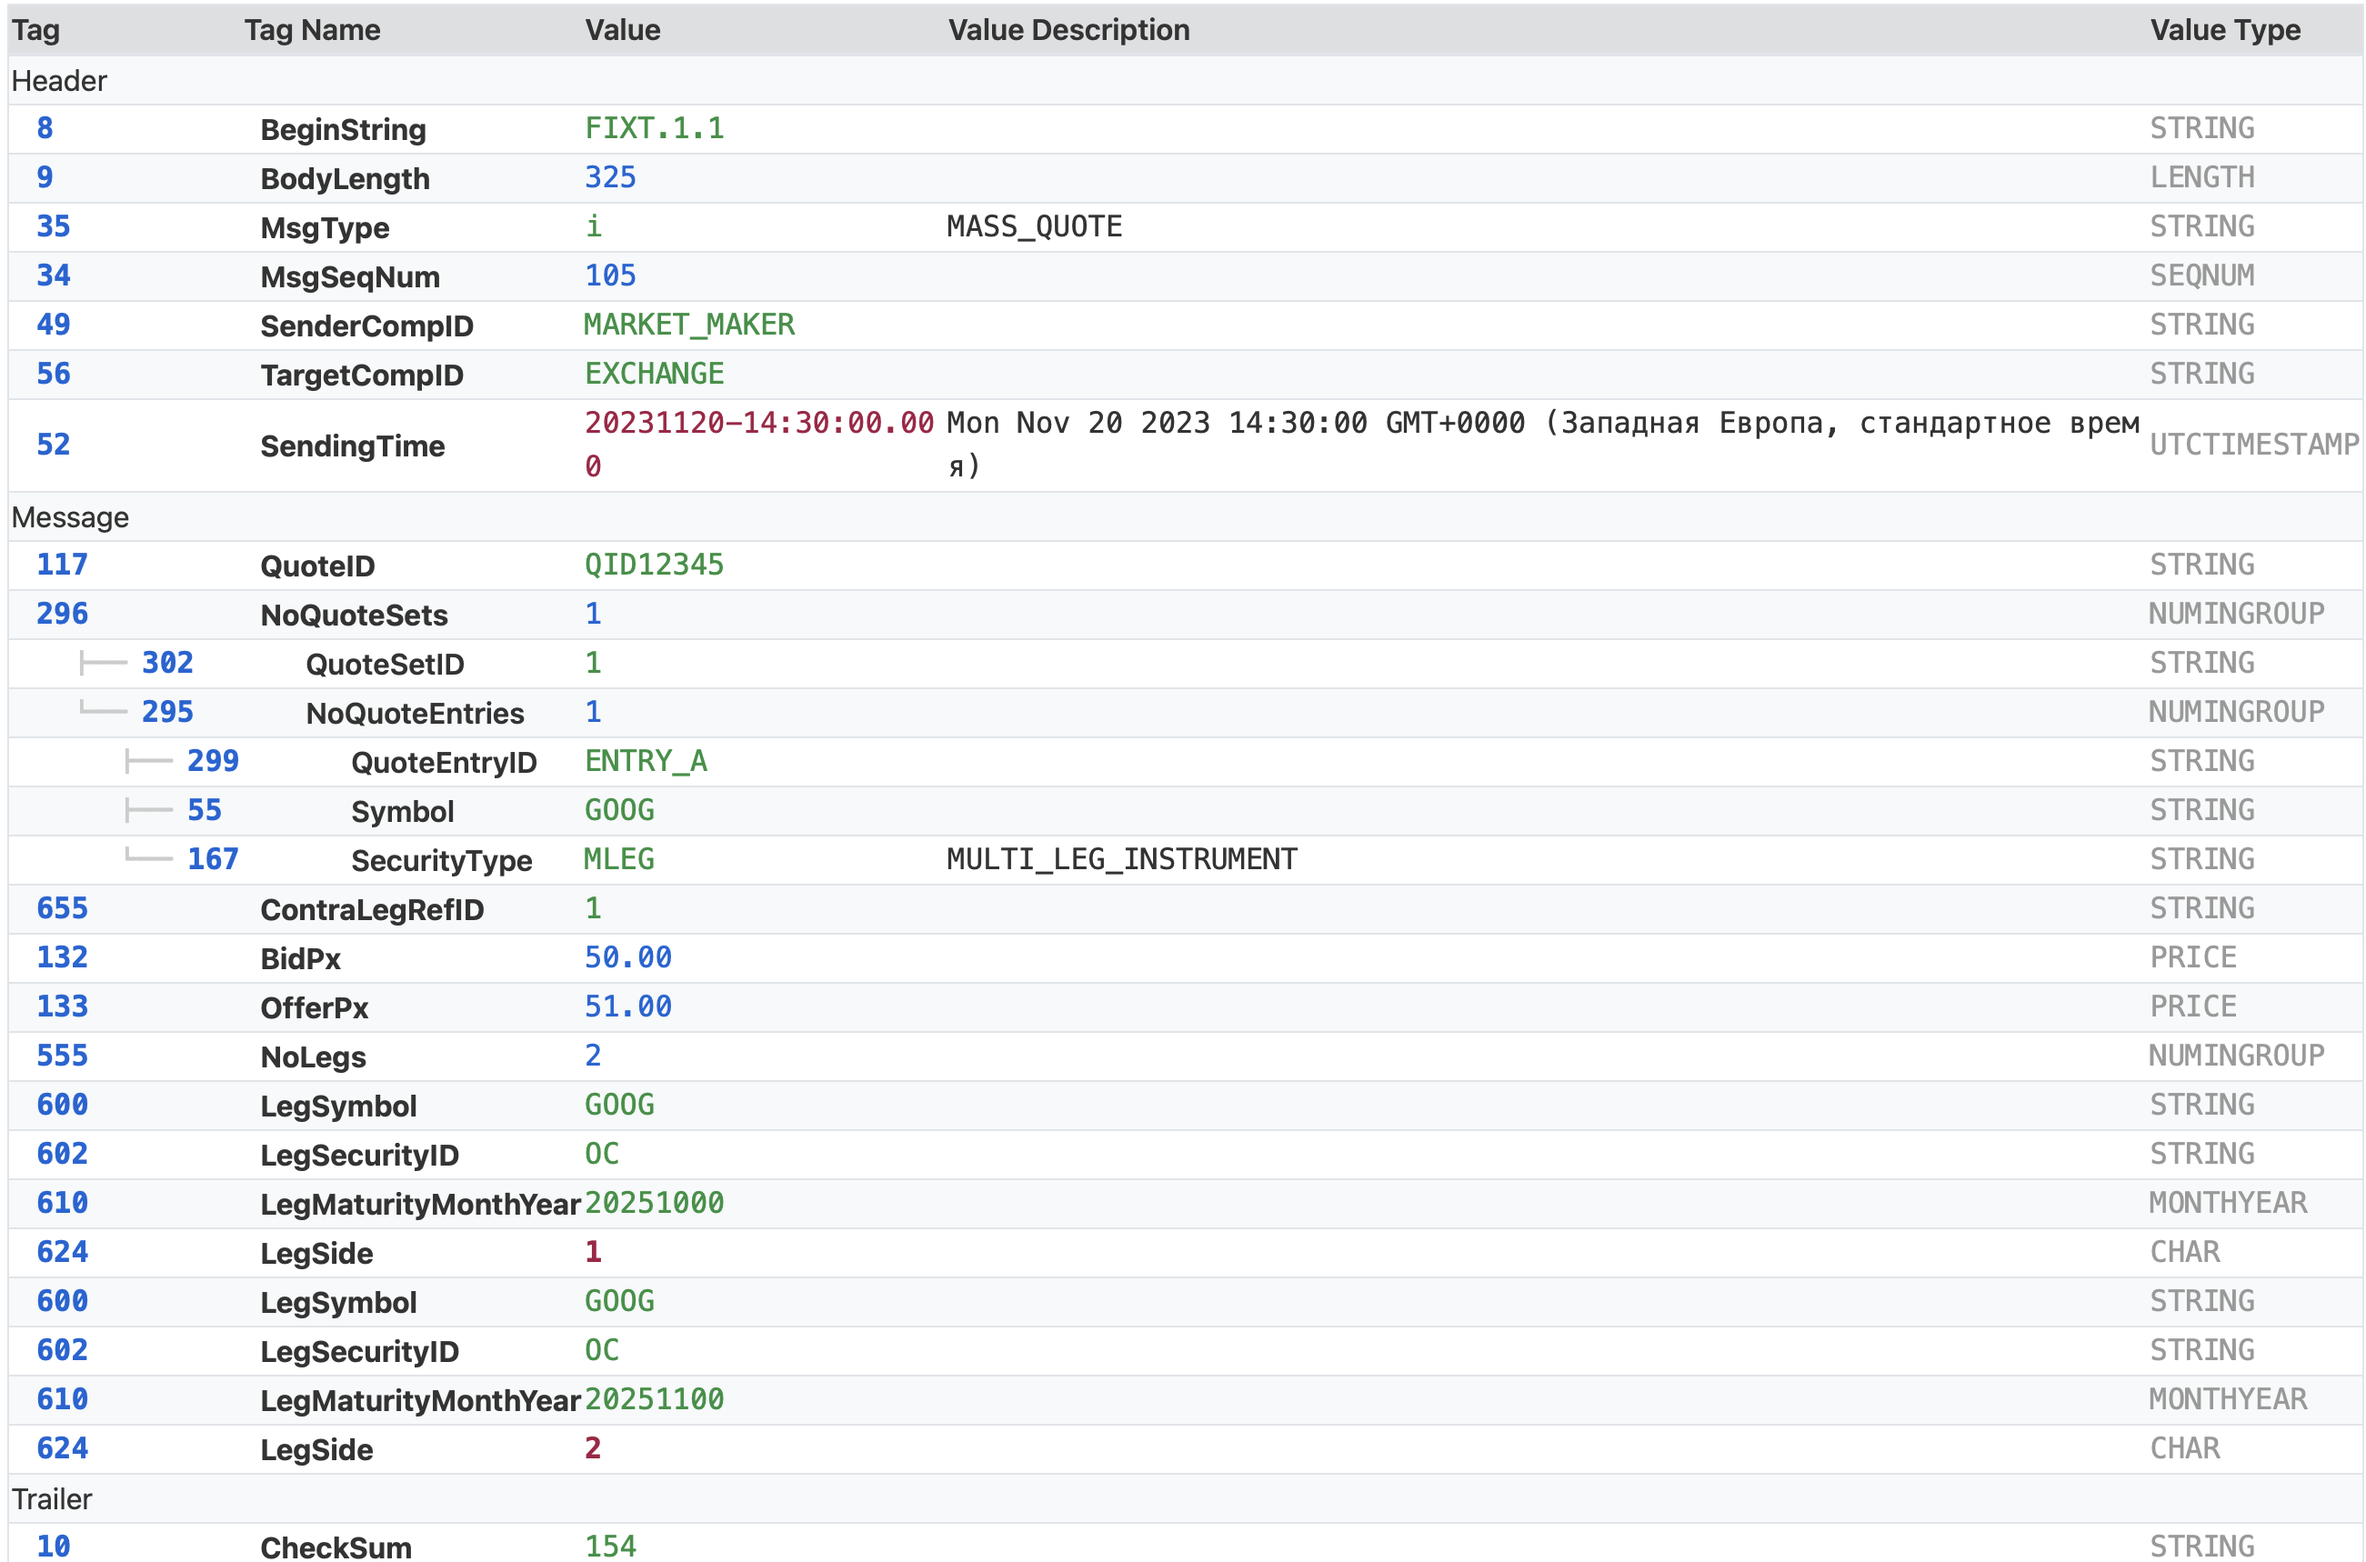
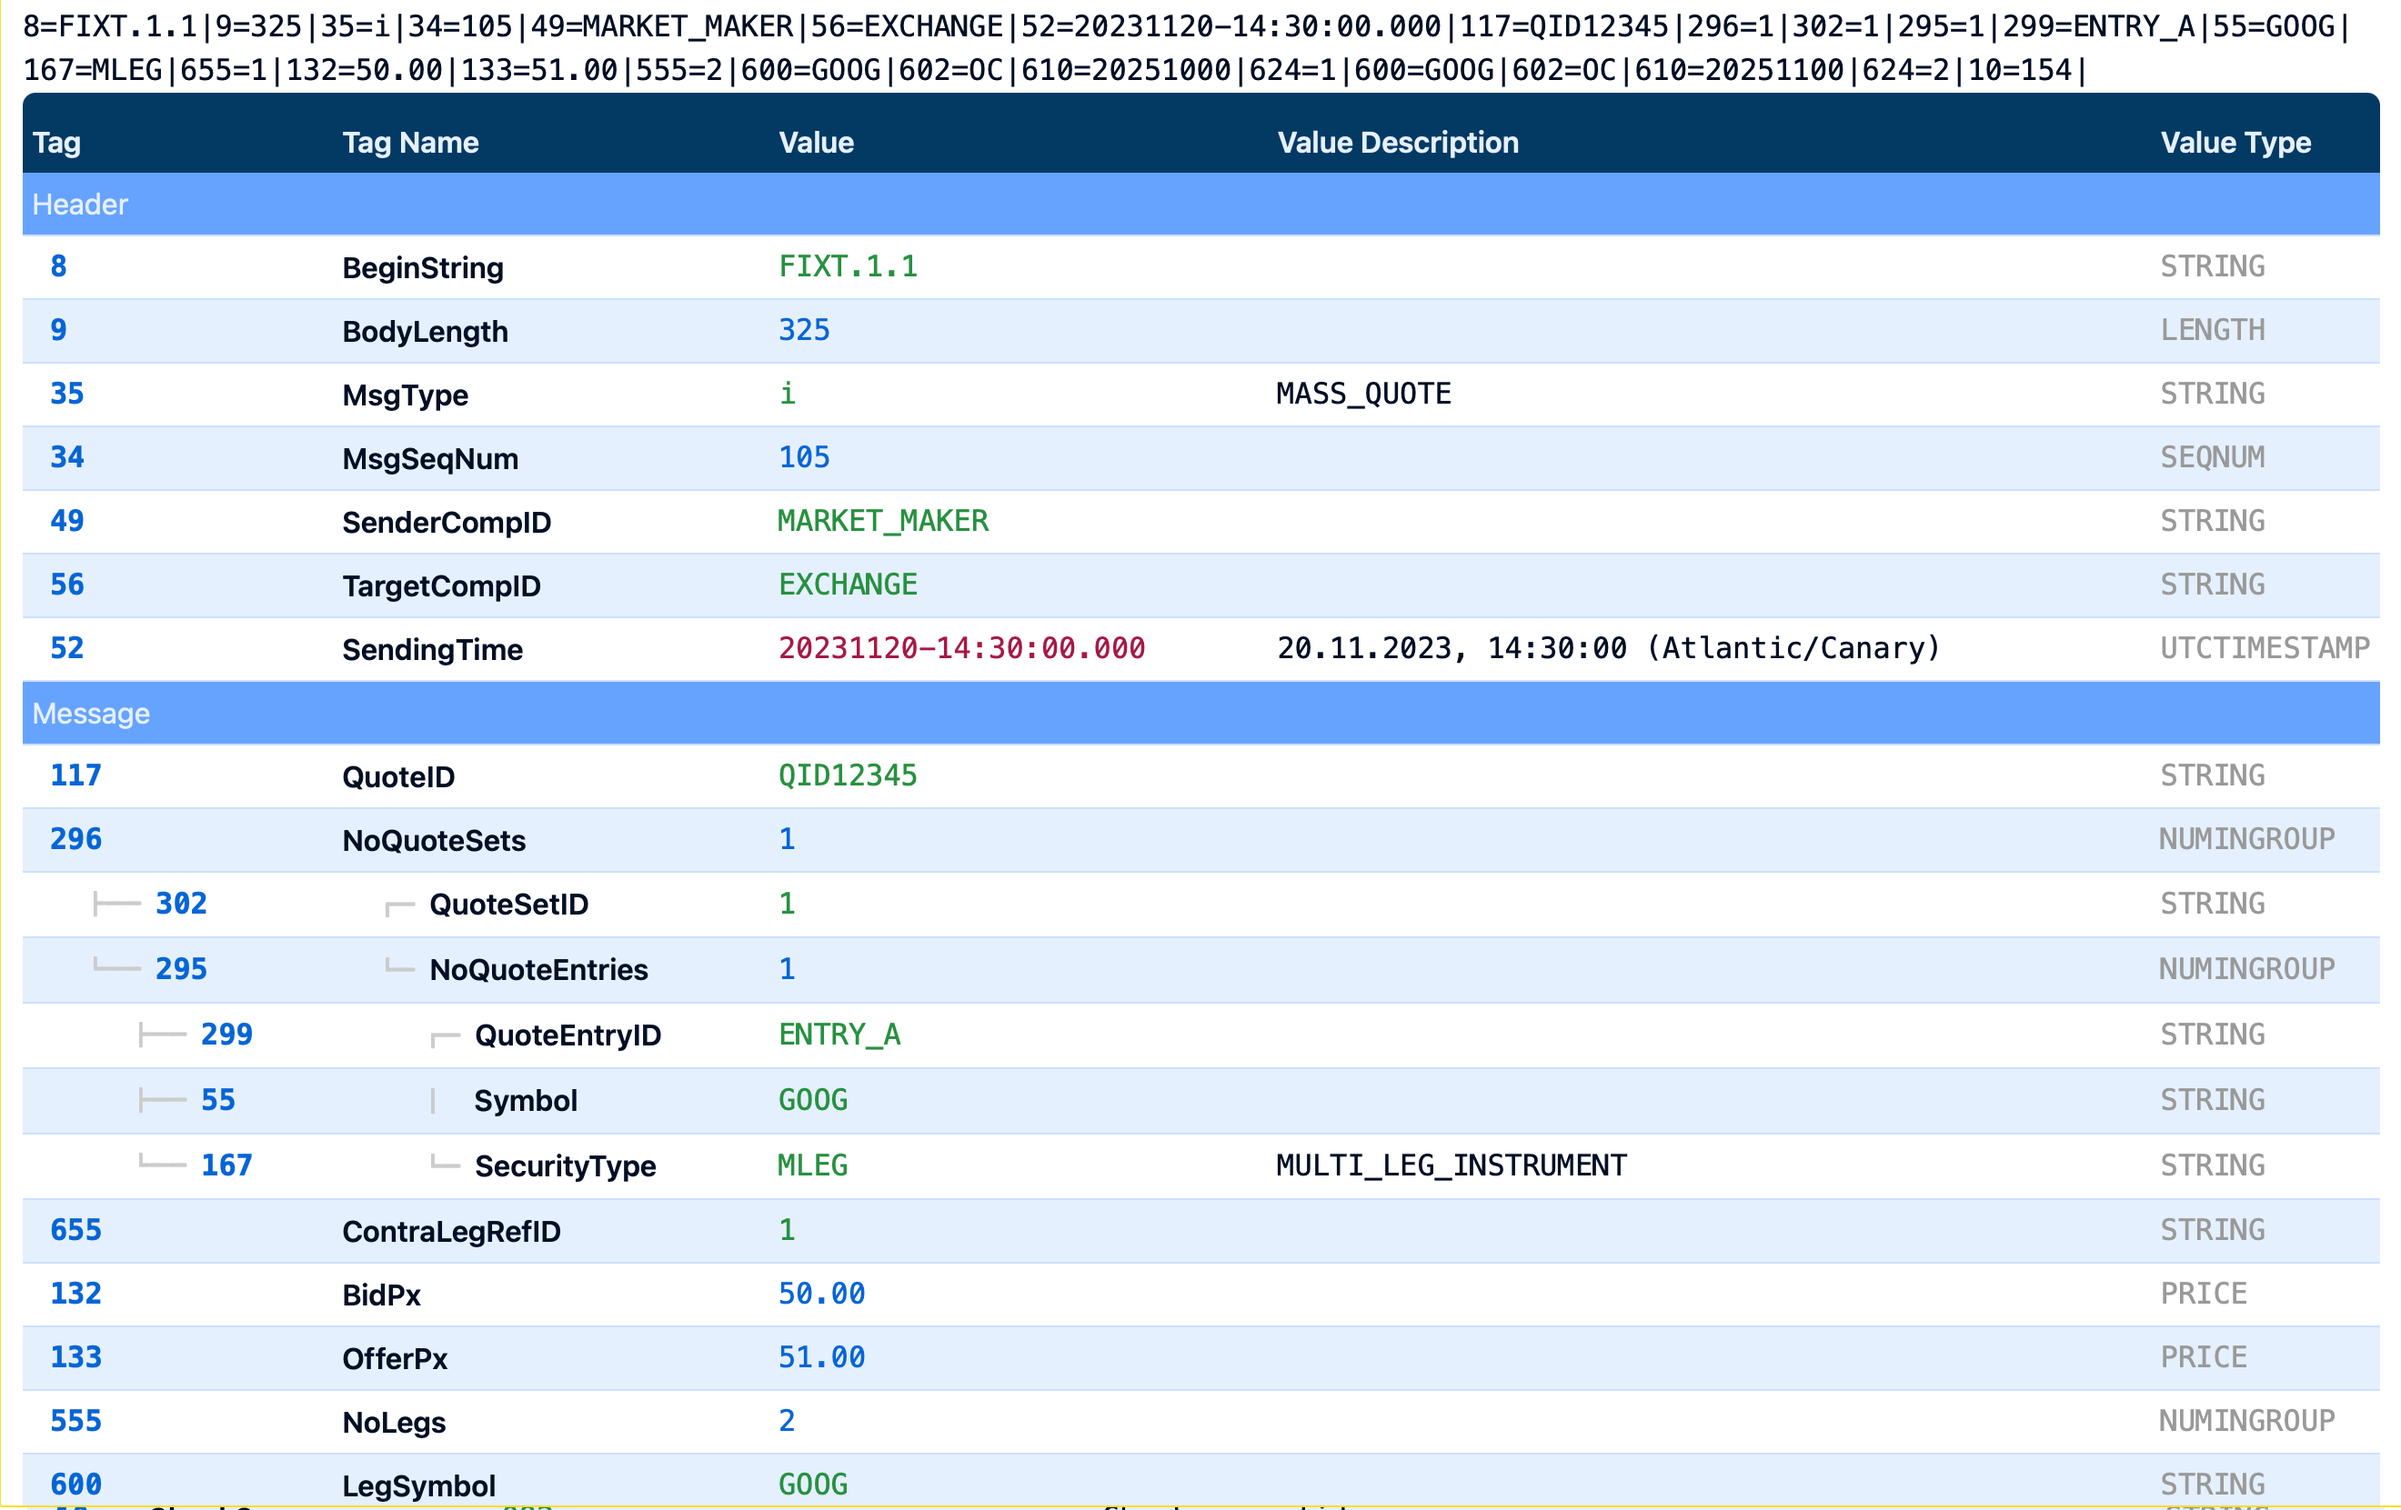
Update color schema

diff --git a/src/index.html b/src/index.html
@@ -23,7 +23,7 @@ This source code is licensed under the MIT license found in the LICENSE.txt file
             crossorigin="anonymous"></script>
 </head>
 <body>
-<div class="pb-3 mb-4 border-bottom text-bg-dark shadow">
+<div class="pb-3 mb-4 border-bottom shadow" style="background-color: #013A63;">
     <header class="container py-3">
         <a href="/" class="d-flex align-items-center text-decoration-none text-white">
             <img src="fix-decoder.svg" alt="Logo" height="50" class="me-4" style="filter: invert()">

diff --git a/README.md b/README.md
@@ -1,5 +1,5 @@
 <div align="center">
-    <img src="src/fix-decoder.svg" alt="FIX Decoder" width="200"/>
+    <img src="src/fix-decoder.svg" alt="FIX Decoder" width="300"/>
 </div>
 
 # FIX Message Web Component
@@ -22,6 +22,7 @@ The component parses FIX messages and enriches them with data from a FIX diction
 *   **Color-Coded Data Types**: The table view uses different colors for various data types (string, integer, float, etc.) to improve readability.
 
 Demo FIX message decoder can be found here https://fix-decoder.samkov.ee
+
 [<img alt="Website Deployed for Free with FTP Deploy Action" src="https://img.shields.io/badge/Website deployed for free with-FTP DEPLOY ACTION-%3CCOLOR%3E?style=for-the-badge&color=297FA9">](https://github.com/SamKirkland/FTP-Deploy-Action)
 
 
@@ -149,20 +150,24 @@ Here is a list of the available CSS variables:
 | `--font-family`         | The primary font for text content.                   | `-apple-system, BlinkMacSystemFont, "Segoe UI", ...`     |                                                                                                         |
 | `--font-monospace`      | The font for monospace content like tags and values. | `'Consolas', 'Menlo', 'Courier New', monospace`         |                                                                                                         |
 | `--indent-step`         | The indentation width for each level in a nested group.| `25px`                                                  |                                                                                                         |
-| `--font-color`          | The main text color.                                 | `#333`                                                  | <img width="40" height="20" src="https://dummyimage.com/40x20/333333/333333.png">                   |
-| `--value-color`         | The default color for values in the table.           | `#333`                                                  | <img width="40" height="20" src="https://dummyimage.com/40x20/333333/333333.png">                   |
-| `--type-color`          | The color for the data type column.                  | `#999`                                                  | <img width="40" height="20" src="https://dummyimage.com/40x20/999999/999999.png">                   |
+| `--font-color`          | The main text color.                                 | `#000E24`                                               | <img width="40" height="20" src="https://dummyimage.com/40x20/000E24/000E24.png">                   |
+| `--background-color`    | The default background color.                        | `#FFF`                                                  | <img width="40" height="20" src="https://dummyimage.com/40x20/FFFFFF/FFFFFF.png">                   |
+| `--even-backgroud-color`| The background color for even-numbered rows.         | `#E5F0FF`                                               | <img width="40" height="20" src="https://dummyimage.com/40x20/E5F0FF/E5F0FF.png">                   |
+| `--header-font-color`   | The font color for table headers.                    | `#E5F0FF`                                               | <img width="40" height="20" src="https://dummyimage.com/40x20/E5F0FF/E5F0FF.png">                   |
+| `--header-background-color`| The background color for table headers.           | `#013A63`                                               | <img width="40" height="20" src="https://dummyimage.com/40x20/013A63/013A63.png">                   |
+| `--section-font-color`  | The font color for section headers.                  | `#E5F0FF`                                               | <img width="40" height="20" src="https://dummyimage.com/40x20/E5F0FF/E5F0FF.png">                   |
+| `--section-background-color`| The background color for section headers.         | `#66A3FF`                                               | <img width="40" height="20" src="https://dummyimage.com/40x20/66A3FF/66A3FF.png">                   |
+| `--border-color`        | The color for table borders.                         | `#CCE0FF`                                               | <img width="40" height="20" src="https://dummyimage.com/40x20/CCE0FF/CCE0FF.png">                   |
+| `--tree-color`          | The color of the tree-like decorations for nested groups. | `#cccccc`                                             | <img width="40" height="20" src="https://dummyimage.com/40x20/cccccc/cccccc.png">                   |
+| `--tag-color`           | The color for the tag number column.                 | `#0366d6`                                               | <img width="40" height="20" src="https://dummyimage.com/40x20/0366d6/0366d6.png">                   |
 | `--string-value-color`  | The color for string data types.                     | `#269141`                                               | <img width="40" height="20" src="https://dummyimage.com/40x20/269141/269141.png">                   |
-| `--char-value-color`    | The color for character data types.                  | `#a61945`                                               | <img width="40" height="20" src="https://dummyimage.com/40x20/a61945/a61945.png">                   |
 | `--integer-value-color` | The color for integer data types.                    | `#0366d6`                                               | <img width="40" height="20" src="https://dummyimage.com/40x20/0366d6/0366d6.png">                   |
 | `--float-value-color`   | The color for float/decimal data types.              | `#0366d6`                                               | <img width="40" height="20" src="https://dummyimage.com/40x20/0366d6/0366d6.png">                   |
+| `--char-value-color`    | The color for character data types.                  | `#a61945`                                               | <img width="40" height="20" src="https://dummyimage.com/40x20/a61945/a61945.png">                   |
 | `--boolean-value-color` | The color for boolean data types.                    | `#a61945`                                               | <img width="40" height="20" src="https://dummyimage.com/40x20/a61945/a61945.png">                   |
 | `--datetime-value-color`| The color for date and time data types.              | `#a61945`                                               | <img width="40" height="20" src="https://dummyimage.com/40x20/a61945/a61945.png">                   |
-| `--tag-color`           | The color for the tag number column.                 | `#0366d6`                                               | <img width="40" height="20" src="https://dummyimage.com/40x20/0366d6/0366d6.png">                   |
-| `--border-color`        | The color for table borders.                         | `#e1e4e8`                                               | <img width="40" height="20" src="https://dummyimage.com/40x20/e1e4e8/e1e4e8.png">                   |
-| `--background-color`    | The background color for alternating rows.           | `#f6f8fa`                                               | <img width="40" height="20" src="https://dummyimage.com/40x20/f6f8fa/f6f8fa.png">                   |
-| `--tree-color`          | The color of the tree-like decorations for nested groups. | `#cccccc`                                             | <img width="40" height="20" src="https://dummyimage.com/40x20/cccccc/cccccc.png">                   |
-| `--even-backgroud-color`| The background color for even-numbered rows.         | `color-mix(in srgb, var(--background-color), white 10%)` | <img width="40" height="20" src="https://dummyimage.com/40x20/f9fafa/f9fafa.png">                   |
+| `--type-color`          | The color for the data type column.                  | `#999`                                                  | <img width="40" height="20" src="https://dummyimage.com/40x20/999999/999999.png">                   |
+| `--value-color`         | The default color for values in the table.           | `var(--font-color)`                                     | <img width="40" height="20" src="https://dummyimage.com/40x20/000E24/000E24.png">                   |
 
 ## Data Modules
 
